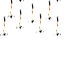
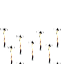
Flipped the animations for arrowflurry and edited the name of crippling trap.

diff --git a/src/Model/Skills/Hunter/SkillCripplingTrap.java b/src/Model/Skills/Hunter/SkillCripplingTrap.java
@@ -10,7 +10,7 @@ import Model.StatusEffects.StatusEffectImmobilize;
 public class SkillCripplingTrap extends Skill {
 	public SkillCripplingTrap(){
 		//String name, int cd, int range, double speed, int aoe, int cost, int damage, StatusEffect SE
-		super("Crippling shot", 1000, 0, 0.4, 3, 25, 150, 300, 300, 300,"Crippling shot: \nA shot which slows the enemy.\n" +
+		super("Crippling trap", 1000, 0, 0.4, 3, 25, 150, 300, 300, 300,"Crippling shot: \nA shot which slows the enemy.\n" +
 				"Level 1: 150 damage\n" +
 				"Level 2: 300 damage\n" +
 				"Level 3: 300 damage\n" +

diff --git a/src/Model/Skills/Hunter/SkillArrowFlurry.java b/src/Model/Skills/Hunter/SkillArrowFlurry.java
@@ -51,7 +51,7 @@ public class SkillArrowFlurry extends Skill {
 		}
 		
 		super.setImage(attackImage);
-		super.setEndState(animation, 2000, 500);
+		super.setEndState(animation, 1000, 500);
 		super.setSkillBarImages(skillBar);
 	}
 }
